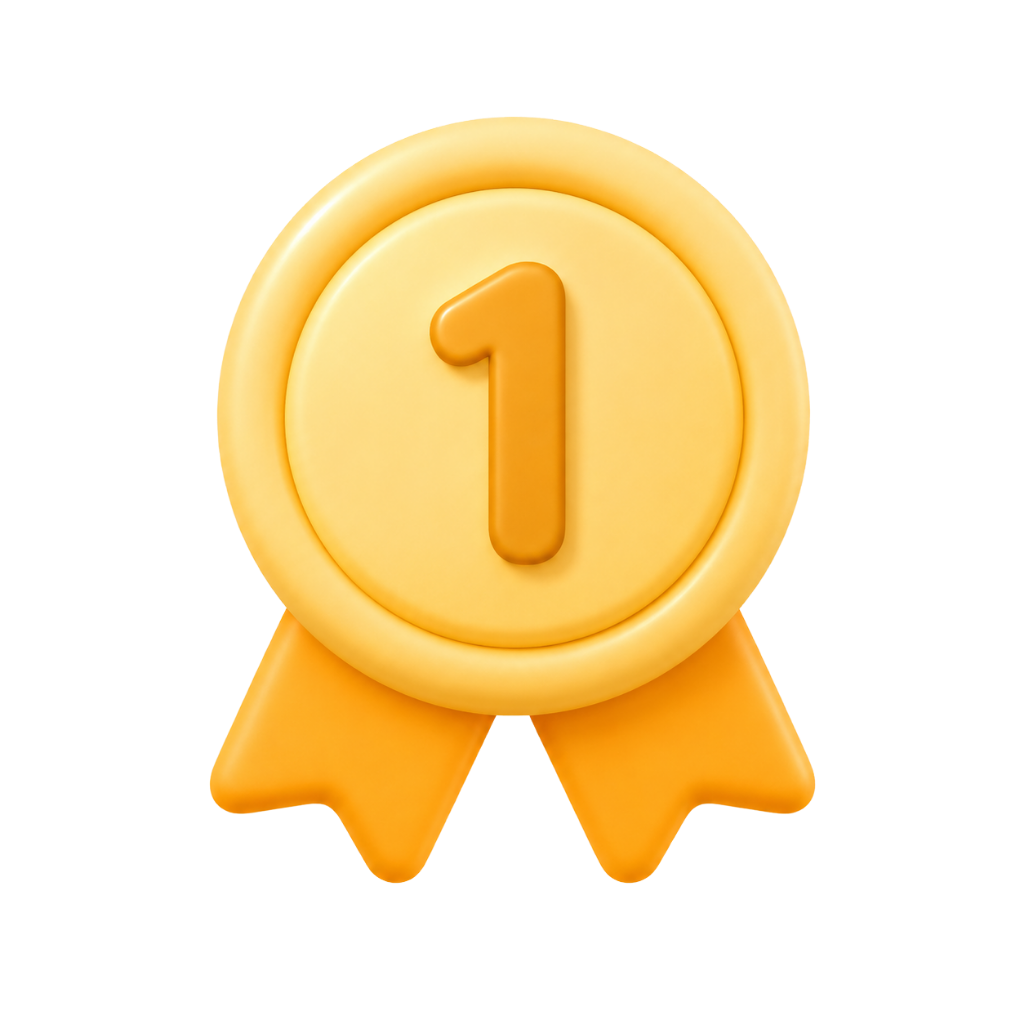
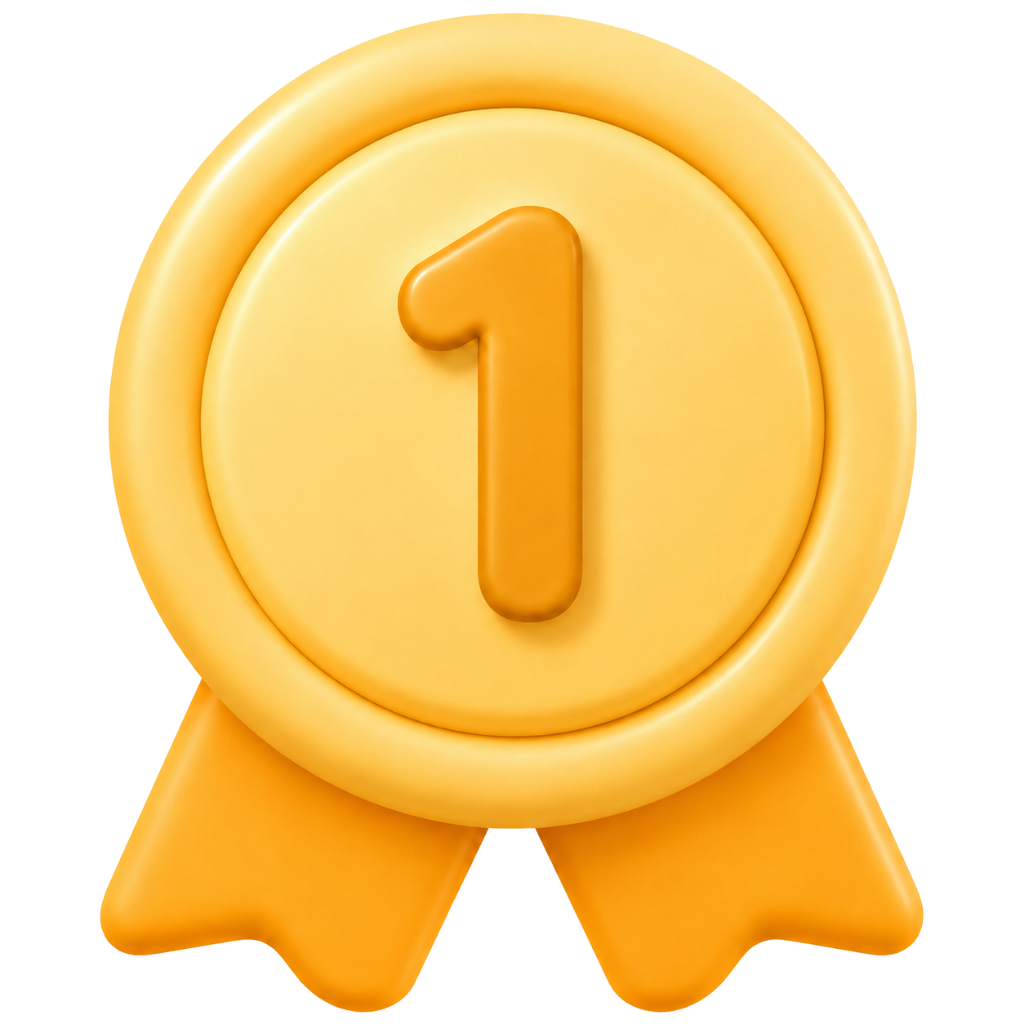
Hide leaderboard sections until data loads

diff --git a/leaderboard.html b/leaderboard.html
@@ -710,7 +710,7 @@
     </header>
 
     <main class="content">
-      <section class="winner-card" id="winnerCard" aria-label="本月勝利戰隊">
+      <section class="winner-card" id="winnerCard" aria-label="本月勝利戰隊" hidden>
         <div class="tied-winner-header">
           <div class="tied-crown-badge" aria-hidden="true">
             <svg viewBox="0 0 24 24" fill="none">
@@ -744,7 +744,7 @@
       </section>
 
       <section>
-        <div class="section-header">
+        <div class="section-header" id="rankingHeader" hidden>
           <h2 class="section-title">排行榜</h2>
           <span class="section-subtitle" id="rankingSubtitle">前 10 戰隊</span>
         </div>
@@ -804,6 +804,7 @@
     const winnerCardEl = document.getElementById('winnerCard');
     const loadingStateEl = document.getElementById('loadingState');
     const emptyStateEl = document.getElementById('emptyState');
+    const rankingHeaderEl = document.getElementById('rankingHeader');
     const rankListEl = document.getElementById('rankList');
     const rankingSubtitleEl = document.getElementById('rankingSubtitle');
     const winnerNameEl = document.getElementById('winnerName');
@@ -876,6 +877,7 @@
     function renderLeaderboard(data) {
       const rows = Array.isArray(data.leaderboard) ? data.leaderboard : [];
       rankingSubtitleEl.textContent = `${data.periodLabel || ''}前10戰隊`;
+      rankingHeaderEl.hidden = false;
 
       if (isCurrentSelectedMonth()) {
         winnerCardEl.hidden = true;
@@ -1094,6 +1096,8 @@
     }
 
     function showLoading() {
+      winnerCardEl.hidden = true;
+      rankingHeaderEl.hidden = true;
       loadingStateEl.hidden = false;
       emptyStateEl.hidden = true;
       rankListEl.hidden = true;
@@ -1101,6 +1105,7 @@
     }
 
     function showEmpty() {
+      rankingHeaderEl.hidden = false;
       loadingStateEl.hidden = true;
       emptyStateEl.hidden = false;
       rankListEl.hidden = true;
